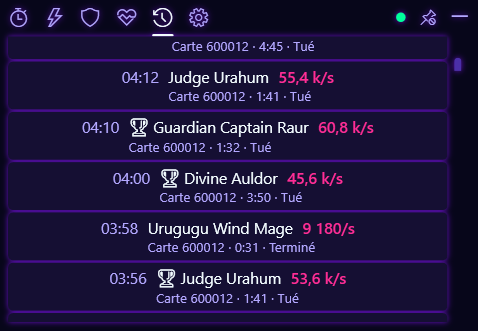
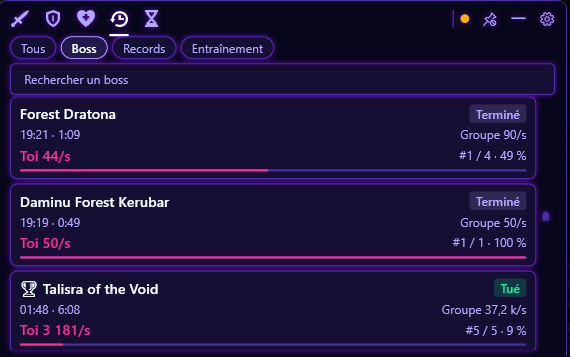
docs(site): 0.3.6 history cards, new history screenshot and build attestations

diff --git a/site/guide.html b/site/guide.html
@@ -74,8 +74,9 @@
 <p>Les boutons <strong>Copier texte</strong> et <strong>Copier image</strong> de la barre d'actions copient un résumé du combat : en texte, prêt à coller dans le chat du jeu, ou en image.</p>
 
 <h2 id="historique">Historique</h2>
-<p>Les combats passés sont conservés, jusqu'à 100 combats sur 30 jours, et consultables à tout moment. L'historique utilise le même choix <strong>[Boss | Tout]</strong> que le meter.</p>
-<figure class="shot"><img src="assets/shots/historique.png" alt="Historique des combats avec des trophées sur les records personnels" width="478" height="332" loading="lazy"><figcaption>Historique et records personnels</figcaption></figure>
+<p>Les combats passés sont conservés, jusqu'à 100 combats sur 30 jours, et consultables à tout moment. Chaque combat a sa carte : l'issue (par exemple <strong>Tué</strong>, ou <strong>Wipe</strong> avec les PV restants du boss), ton DPS, ton rang et ta part du groupe ; en entraînement, l'écart avec l'essai précédent.</p>
+<p>En haut, les filtres <strong>Tous</strong>, <strong>Boss</strong>, <strong>Records</strong> et <strong>Entraînement</strong> et une recherche par nom de boss. Les récaps de mort affichent les noms des compétences. L'historique utilise le même choix <strong>[Boss | Tout]</strong> que le meter.</p>
+<figure class="shot"><img src="assets/shots/historique.png" alt="Historique en cartes, filtre Boss actif : pour chaque combat, son issue, ton DPS, ton rang et ta part du groupe, avec les filtres Tous, Boss, Records et Entraînement et la recherche par boss" width="570" height="357" loading="lazy"><figcaption>Historique en cartes, filtre Boss</figcaption></figure>
 
 <h2 id="records">Records personnels</h2>
 <p>Tes meilleurs résultats sont conservés et signalés par un trophée dans l'historique.</p>

diff --git a/site/installation.html b/site/installation.html
@@ -51,7 +51,8 @@
 <li><h2 id="fenetre">Jouer en fenêtré sans bordure</h2>
 <p>Dans les options graphiques d'AION 2, choisis le mode <strong>fenêtré sans bordure</strong>. En plein écran exclusif, le jeu masque les overlays et l'application ne sera pas visible.</p></li>
 <li><h2 id="verifier">Vérifier le fichier <span class="step-optional">optionnel</span></h2>
-<p>Chaque fichier d'une version est accompagné de son empreinte SHA-256 (fichier <code>.sha256</code> sur la <a href="https://github.com/nathantek/aion2assistant/releases">page de la version</a>). Ouvre PowerShell dans le dossier du fichier téléchargé et lance <code>Get-FileHash .\Aion2Assistant-win-Setup.exe</code> : la valeur affichée doit être identique. Si elle diffère, ne lance pas le fichier.</p></li>
+<p>Chaque fichier d'une version est accompagné de son empreinte SHA-256 (fichier <code>.sha256</code> sur la <a href="https://github.com/nathantek/aion2assistant/releases">page de la version</a>). Ouvre PowerShell dans le dossier du fichier téléchargé et lance <code>Get-FileHash .\Aion2Assistant-win-Setup.exe</code> : la valeur affichée doit être identique. Si elle diffère, ne lance pas le fichier.</p>
+<p>Tu peux aussi vérifier d'où vient le fichier : depuis la 0.3.6, chaque fichier publié a une attestation de build qui prouve qu'il a été construit par GitHub Actions à partir du dépôt public. Avec <a href="https://cli.github.com/">GitHub CLI</a>, lance <code>gh attestation verify Aion2Assistant-win-Setup.exe --repo nathantek/aion2assistant</code> : la vérification doit réussir.</p></li>
 </ol>
 
 <h2 id="portable">Version portable</h2>

diff --git a/site/index.html b/site/index.html
@@ -75,8 +75,8 @@
 <img src="assets/shots/timers.png" alt="Onglet Timers : Festival Shugo, faille spatio-temporelle, reset quotidien et reset hebdomadaire avec leurs comptes à rebours" width="575" height="334" loading="lazy">
 </div>
 <div class="tab-panel" id="panel-historique" role="tabpanel" aria-labelledby="tab-historique" tabindex="0">
-<div><h3>Chaque combat, gardé 30 jours</h3><p>Les 100 derniers combats restent consultables. Tes records personnels sont signalés par un trophée.</p></div>
-<img src="assets/shots/historique.png" alt="Historique des combats avec des trophées sur les records personnels" width="478" height="332" loading="lazy">
+<div><h3>Chaque combat, gardé 30 jours</h3><p>Les 100 derniers combats, en cartes : issue du combat, ton DPS, ton rang et ta part du groupe. Filtres et recherche par boss pour retrouver un combat ; tes records sont signalés par un trophée.</p></div>
+<img src="assets/shots/historique.png" alt="Historique en cartes, filtre Boss actif : pour chaque combat, son issue, ton DPS, ton rang et ta part du groupe, avec les filtres Tous, Boss, Records et Entraînement et la recherche par boss" width="570" height="357" loading="lazy">
 </div>
 <div class="tab-panel" id="panel-courbe" role="tabpanel" aria-labelledby="tab-courbe" tabindex="0">
 <div><h3>Le combat, seconde par seconde</h3><p>L'évolution du DPS de chaque joueur au fil du combat. Clique sur un nom dans la légende pour afficher ou masquer sa courbe.</p></div>

diff --git a/site/faq.html b/site/faq.html
@@ -53,6 +53,7 @@
 <details class="faq" id="authenticite">
 <summary>Comment vérifier que mon fichier est authentique ?</summary>
 <p>Télécharge l'app uniquement depuis ce site ou la page <a href="https://github.com/nathantek/aion2assistant/releases">Releases GitHub</a>. Chaque fichier d'une version est accompagné de son empreinte SHA-256 (fichier <code>.sha256</code>). Pour la comparer, ouvre PowerShell dans le dossier du fichier téléchargé et lance <code>Get-FileHash .\Aion2Assistant-win-Setup.exe</code> : la valeur affichée doit être identique. Si elle diffère, ne lance pas le fichier.</p>
+<p>Tu peux aussi vérifier d'où vient le fichier : depuis la 0.3.6, chaque fichier publié a une attestation de build qui prouve qu'il a été construit par GitHub Actions à partir du dépôt public. Avec <a href="https://cli.github.com/">GitHub CLI</a>, lance <code>gh attestation verify Aion2Assistant-win-Setup.exe --repo nathantek/aion2assistant</code> : la vérification doit réussir.</p>
 </details>
 <details class="faq" id="antivirus">
 <summary>Mon antivirus ou SmartScreen bloque l'app</summary>
